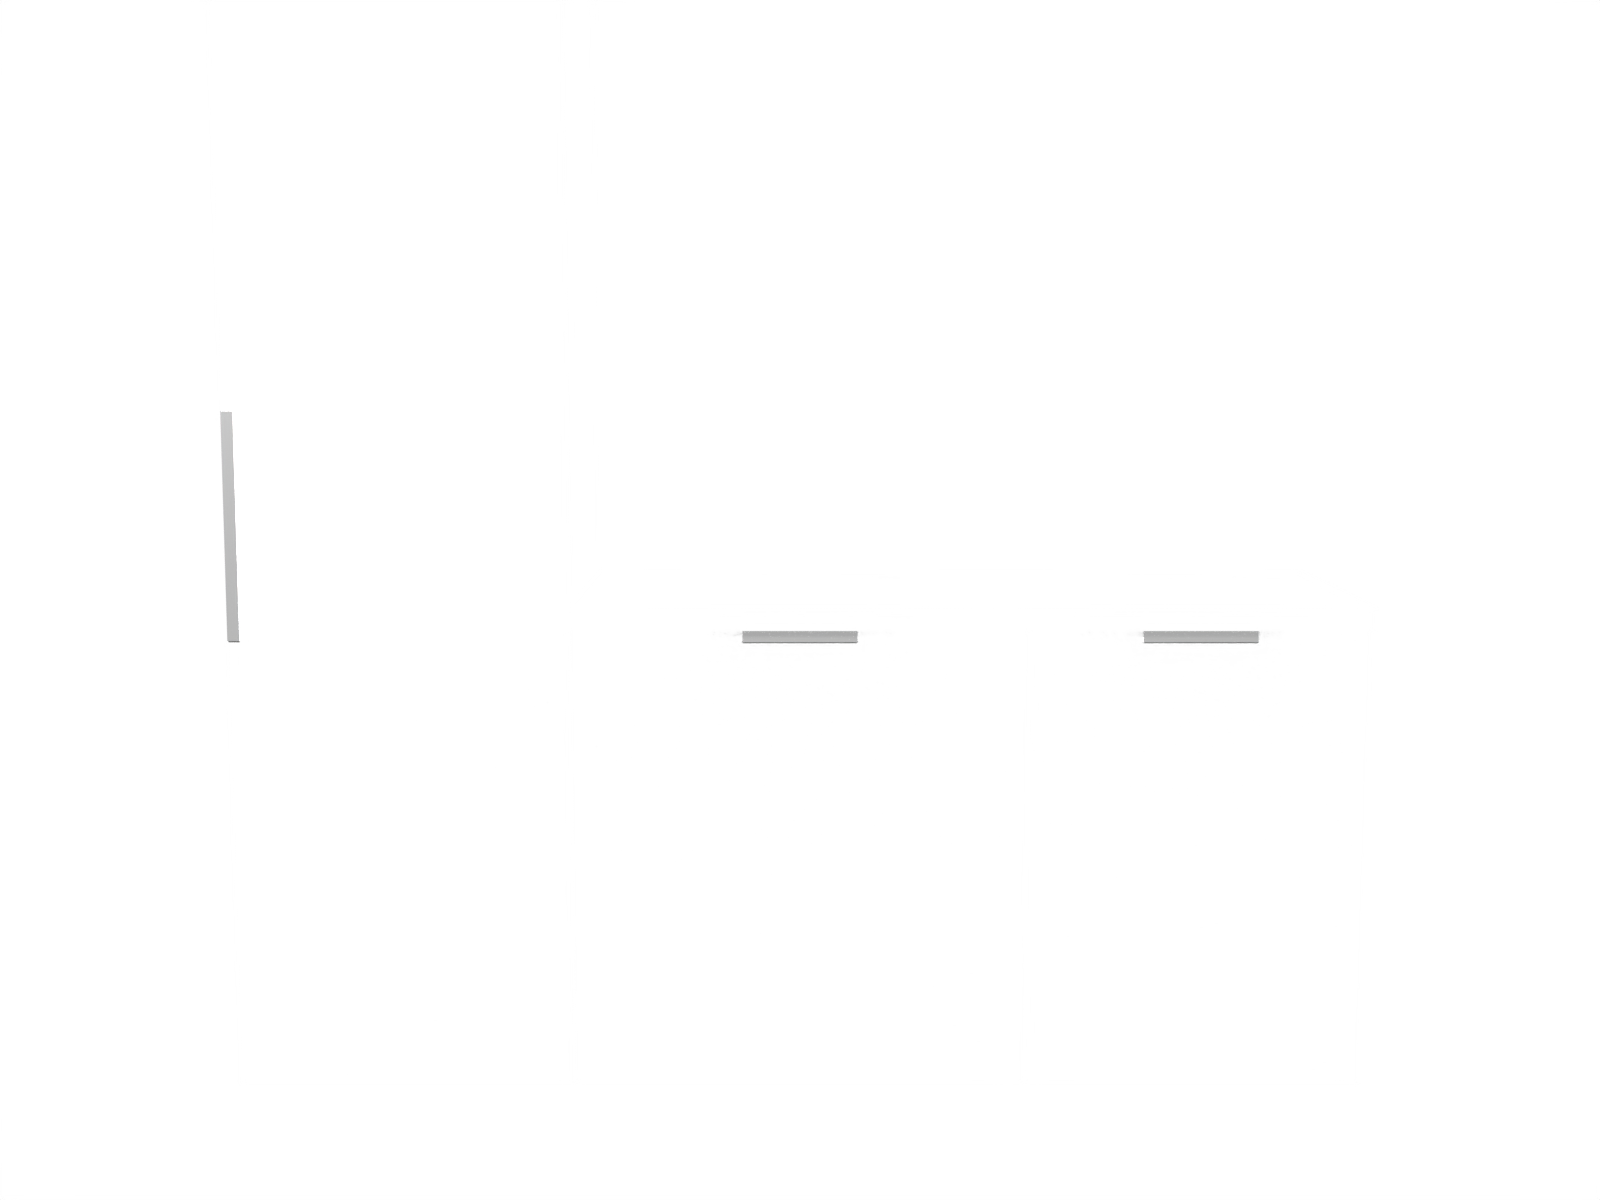
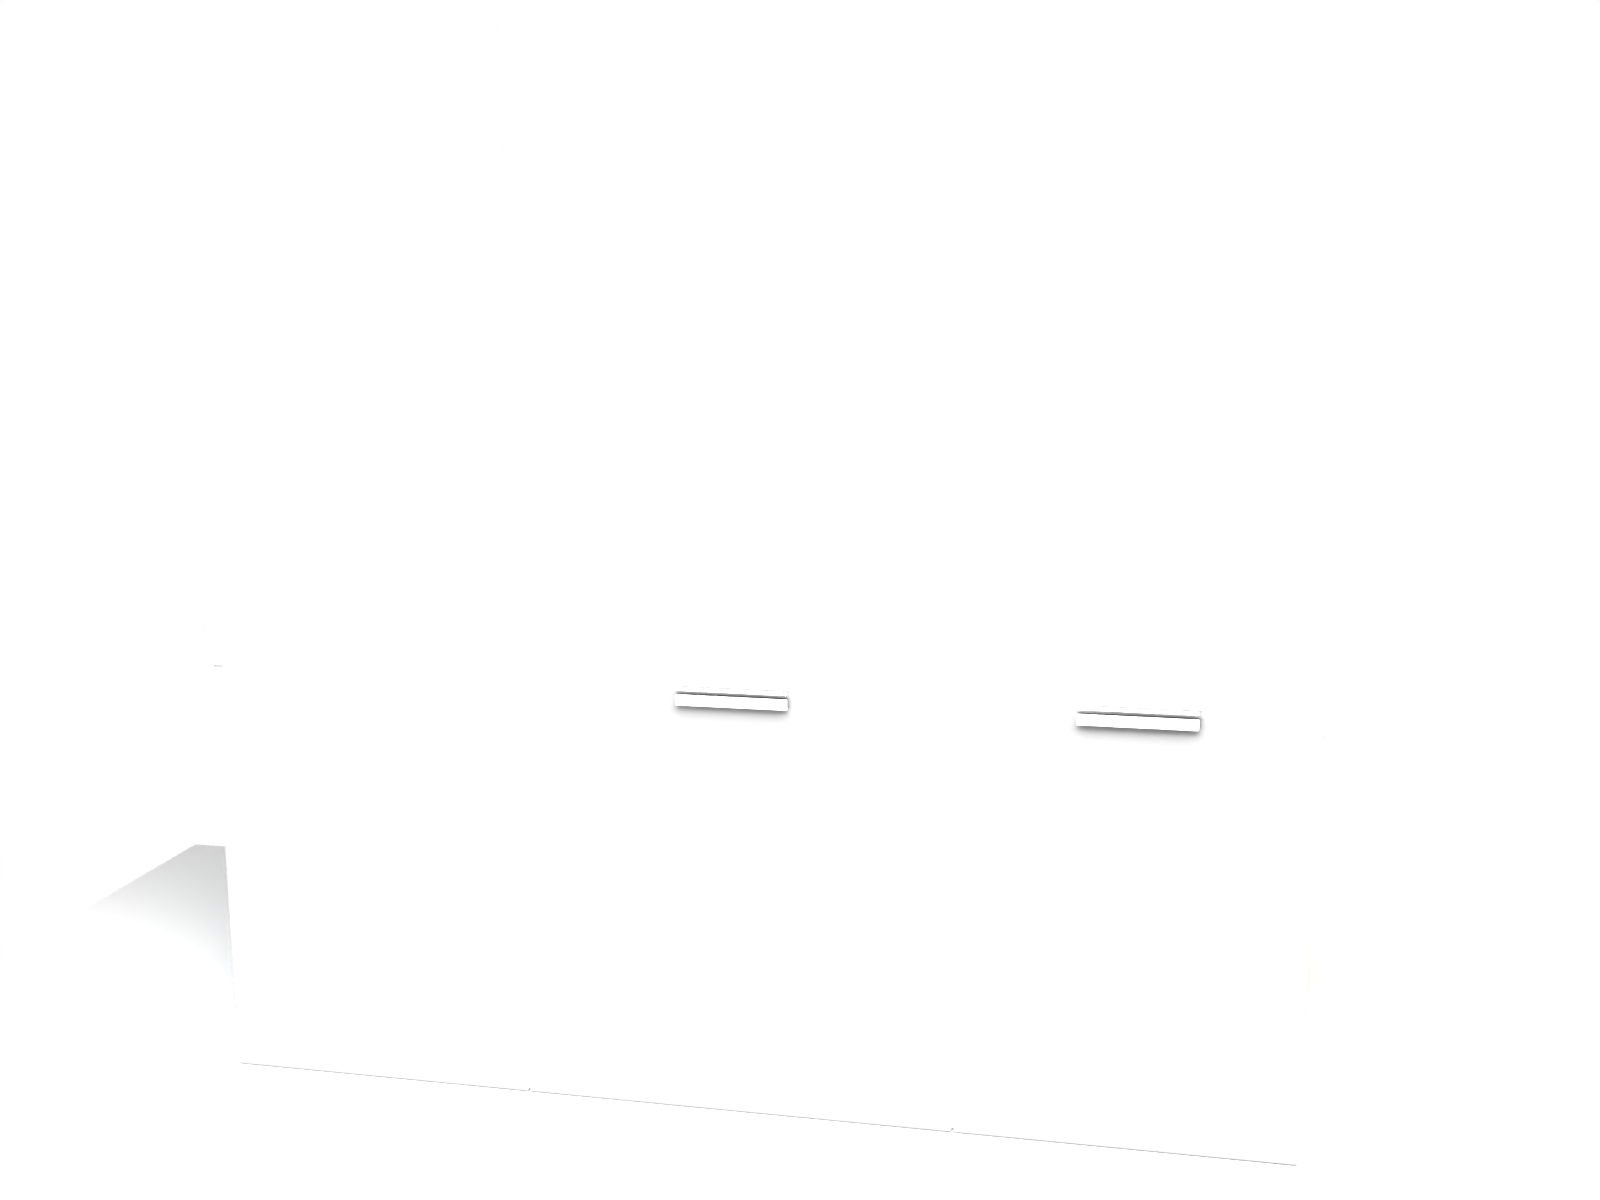
fix: correct handle positioning and output path
- Move handles 20mm below countertop on cabinet front face
- Save handle pass to handles/edge_pull.png matching API path
- Handle Y positioned in front of cabinet face

diff --git a/krono-compositor-mvp/gen_kitchen.py b/krono-compositor-mvp/gen_kitchen.py
@@ -143,17 +143,22 @@ for i, cab in enumerate(layout_data['cabinets']):
     if cab.get('handle') == 'edge_pull':
         handle_w = min(0.2, w - 0.05)
         if cab['type'] == 'base':
+            # Edge pull: lip sits on cabinet front, 20mm below countertop
+            # Overhang is 20mm (from layout.json), handle must be in front of cabinet
+            ct_overhang_m = 0.02  # 20mm from layout.json
+            handle_y = -d - ct_overhang_m / 2  # Centered in front of cabinet face
             bpy.ops.mesh.primitive_cube_add(size=1.0)
             lip = bpy.context.active_object
-            lip.scale = (handle_w, 0.02, 0.002)
+            lip.scale = (handle_w, 0.015, 0.002)
             bpy.ops.object.transform_apply(scale=True)
-            lip.location = (current_x + w / 2, -d + 0.01, h - GAP / 2 + 0.001)
+            lip.location = (current_x + w / 2, handle_y, h - GAP / 2 - 0.02)
 
+            # Drop hangs down from lip
             bpy.ops.mesh.primitive_cube_add(size=1.0)
             drop = bpy.context.active_object
-            drop.scale = (handle_w, 0.002, 0.02)
+            drop.scale = (handle_w, 0.002, 0.018)
             bpy.ops.object.transform_apply(scale=True)
-            drop.location = (current_x + w / 2, -d - 0.001, h - GAP / 2 - 0.01)
+            drop.location = (current_x + w / 2, handle_y, h - GAP / 2 - 0.04)
         elif cab['type'] == 'tall':
             bpy.ops.mesh.primitive_cube_add(size=1.0)
             lip = bpy.context.active_object
@@ -428,7 +433,10 @@ scene.render.film_transparent = True
 scene.render.image_settings.file_format = 'PNG'
 scene.render.image_settings.color_depth = '8'
 scene.render.image_settings.color_mode = 'RGBA'
-scene.render.filepath = os.path.join(OUTPUT_DIR, "handle_pass.png")
+# Save to handles/ subfolder matching API path structure
+handles_dir = os.path.join(OUTPUT_DIR, "handles")
+os.makedirs(handles_dir, exist_ok=True)
+scene.render.filepath = os.path.join(handles_dir, "edge_pull.png")
 bpy.ops.render.render(write_still=True)
 
 print(f"Pipeline complete! 5 Assets saved to: {OUTPUT_DIR}")
